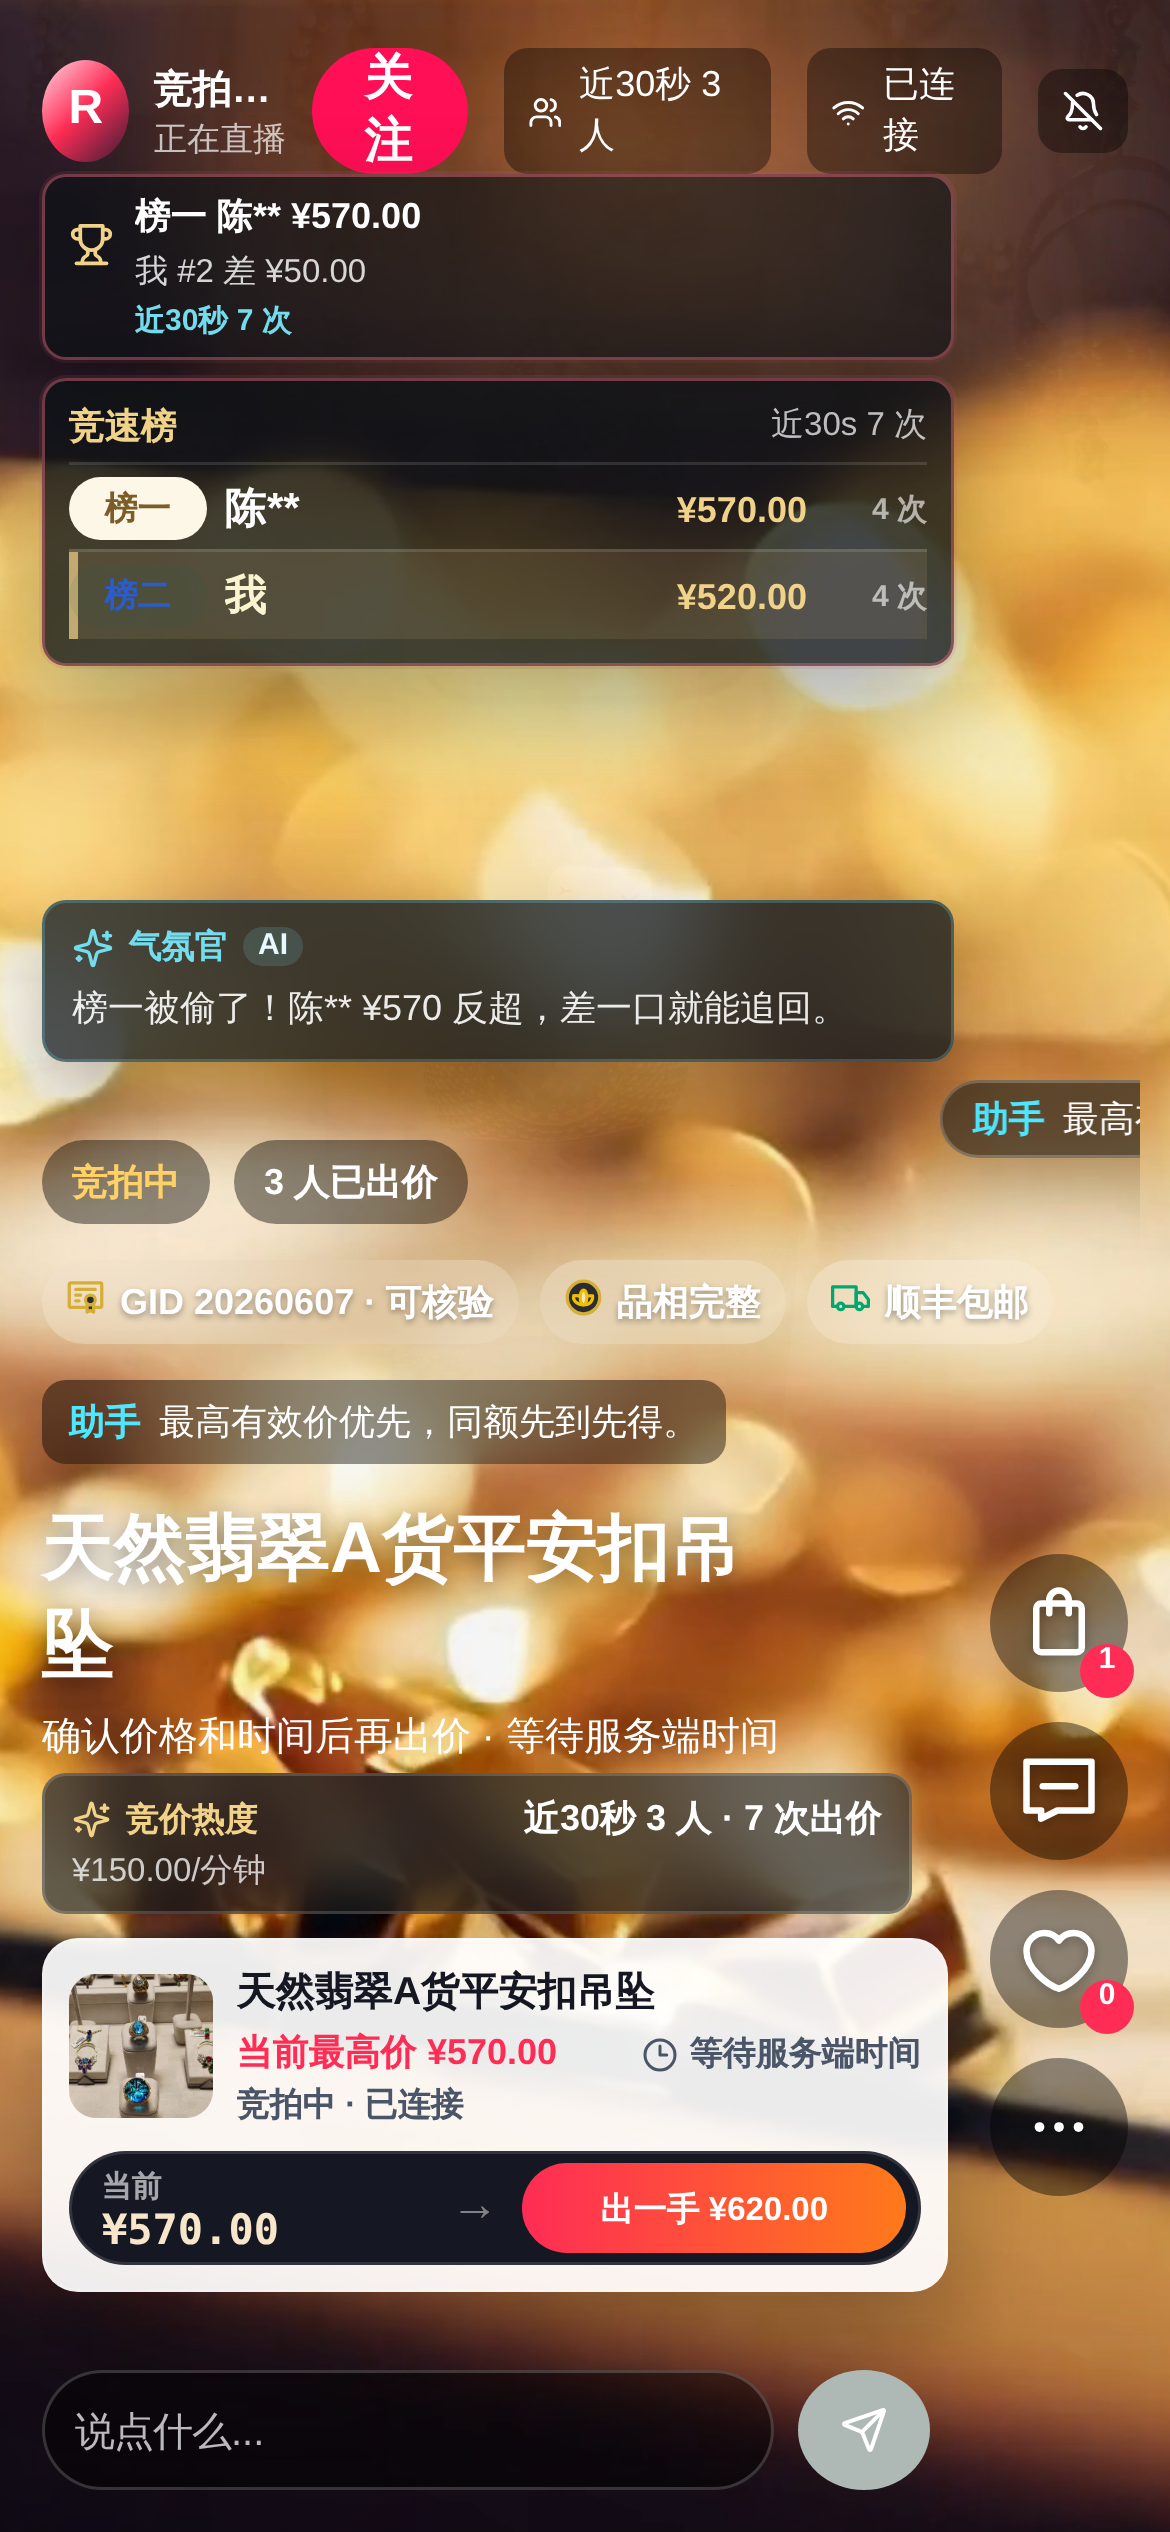
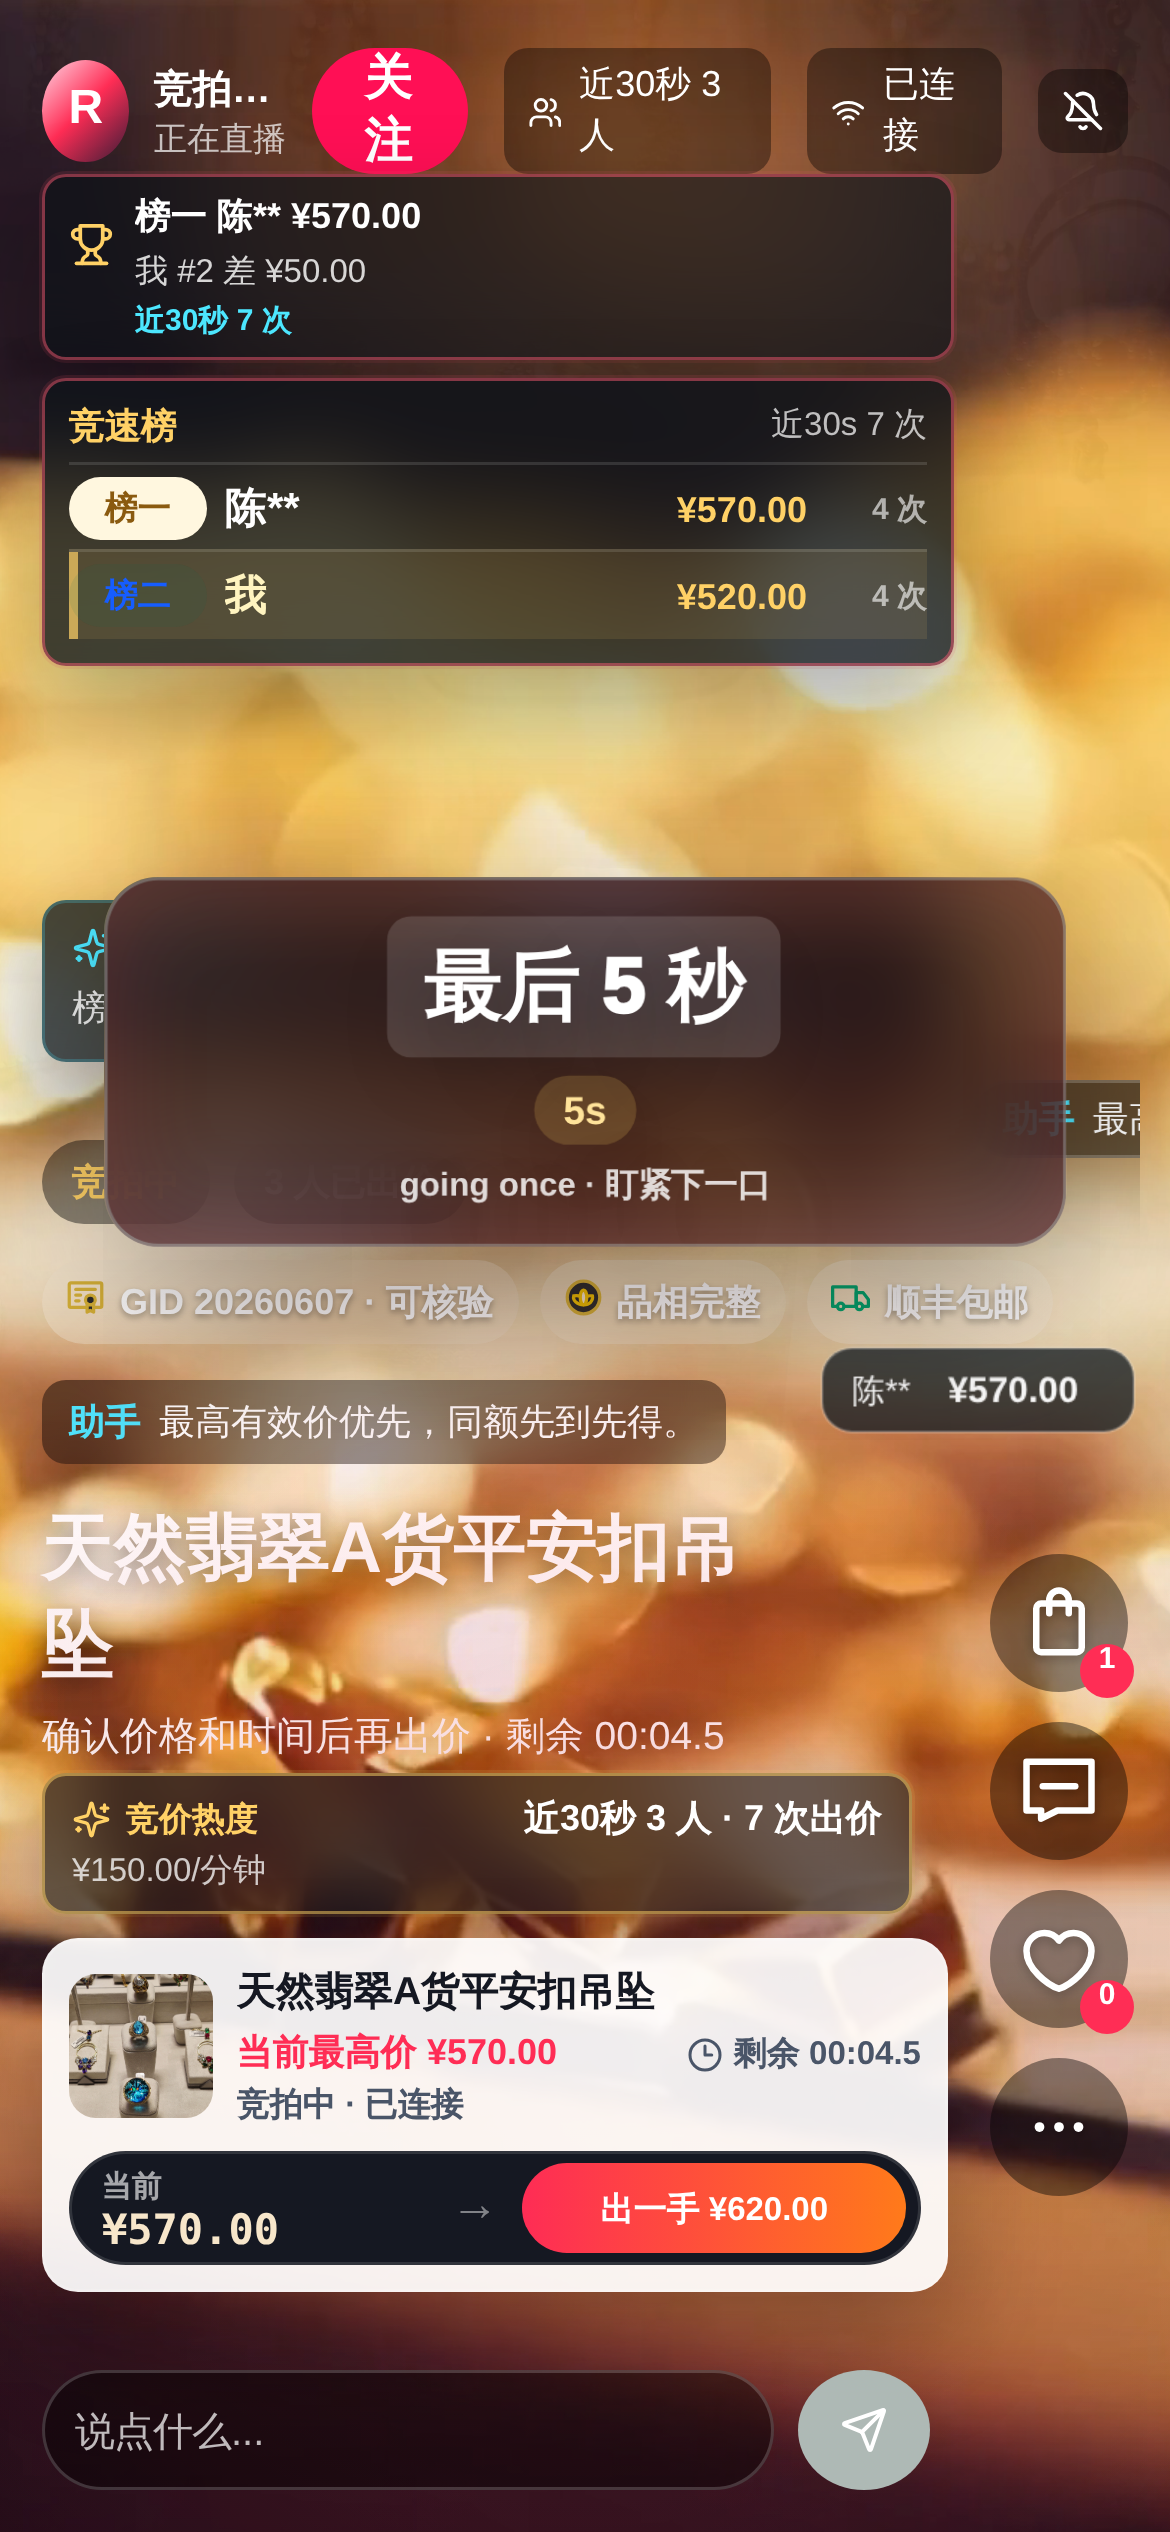
feat(h5): add final seconds atmosphere layer

diff --git a/frontend/mobile-h5/src/components.tsx b/frontend/mobile-h5/src/components.tsx
@@ -202,6 +202,7 @@ export function LiveStage({
       </div>
       <RaceBoard leaderboard={leaderboard} nextBidCents={nextBidCents} forceExpanded={raceBoardExpanded} intensity={atmosphereIntensity} onOpenBid={onOpenBid} />
       <CohostRibbon messages={cohostMessages} />
+      <FinalSecondsLayer countdownPhase={countdownPhase} atmosphereCue={atmosphereCue} scenario={scenario} />
       <div className="stage-safe-zone">
         <div className="live-topic-row" aria-label="live-topic">
           <span>{auctionStatusLabel(scenario.status)}</span>
@@ -227,13 +228,6 @@ export function LiveStage({
           <p>确认价格和时间后再出价 · {scenario.countdown ?? countdownCopy}</p>
         </div>
       </div>
-      {countdownPhase.phase === 'hammer' && countdownPhase.beat && !scenario.stale && !scenario.sold ? (
-        <div className="hammer-beat-layer" data-testid="hammer-beat-layer" aria-live="polite">
-          <span>{countdownPhase.beat}</span>
-          <strong>{countdownPhase.beat === '最后一次' ? '落槌前最后确认' : '有效出价仍会延时'}</strong>
-          <em>以最终成交结果为准</em>
-        </div>
-      ) : null}
       <HeatMeter heat={heat} countdownPhase={countdownPhase.phase} />
       <button className="floating-product-card" type="button" onClick={onOpenBid} data-testid="floating-product-card" aria-label="进入竞拍面板">
         <span className={`floating-thumb ${mediaURL ? 'has-media' : ''}`} style={mediaURL ? { '--floating-media-url': `url("${mediaURL}")` } as React.CSSProperties : undefined}>
@@ -263,6 +257,45 @@ export function LiveStage({
         <button type="button" onClick={onOpenMore} aria-label="更多"><MoreIcon className="action-rail-icon" size={26} theme="outline" fill={iconParkActionFill} strokeWidth={4} /></button>
       </div>
     </section>
+  );
+}
+
+function FinalSecondsLayer({
+  atmosphereCue,
+  countdownPhase,
+  scenario
+}: {
+  atmosphereCue: AtmosphereCue | null;
+  countdownPhase: CountdownPhaseState;
+  scenario: Scenario;
+}) {
+  if (scenario.stale || scenario.sold) return null;
+  const isExtended = atmosphereCue?.kind === 'extended';
+  const isFinal = countdownPhase.phase === 'critical' || countdownPhase.phase === 'hammer';
+  if (!isExtended && !isFinal) return null;
+  const seconds = countdownPhase.remainingMS != null && countdownPhase.remainingMS > 0
+    ? Math.max(1, Math.ceil(countdownPhase.remainingMS / 1000))
+    : null;
+  const title = isExtended
+    ? '延时 +10s'
+    : countdownPhase.phase === 'hammer'
+      ? countdownPhase.beat || '落槌窗口'
+      : '最后 5 秒';
+  const detail = isExtended
+    ? '最后窗口有真实出价，竞拍继续'
+    : countdownPhase.phase === 'hammer'
+      ? countdownPhase.beat === '最后一次' ? '落槌前最后确认' : '有效出价仍会延时'
+      : 'going once · 盯紧下一口';
+  return (
+    <div
+      className={`final-seconds-layer ${isExtended ? 'is-extended' : countdownPhase.phase}`}
+      data-testid="final-seconds-layer"
+      aria-live="assertive"
+    >
+      <span>{title}</span>
+      <strong>{seconds != null && !isExtended ? `${seconds}s` : detail}</strong>
+      {!isExtended && <em>{detail}</em>}
+    </div>
   );
 }
 

diff --git a/tests/e2e/mobile-h5.spec.ts b/tests/e2e/mobile-h5.spec.ts
@@ -2286,6 +2286,8 @@ test('H5 extension and sold visual effects use bounded nonblocking motion layers
   });
 
   await expect(page.getByTestId('live-stage')).toHaveAttribute('data-atmosphere-kind', 'extended');
+  await expect(page.getByTestId('final-seconds-layer')).toContainText('延时 +10s');
+  await expect(page.getByTestId('final-seconds-layer')).toContainText('最后窗口有真实出价');
   await expect(page.getByTestId('auction-countdown')).toHaveAttribute('data-effect', 'extension-stretch');
   await expect(page.getByTestId('auction-countdown')).toHaveCSS('animation-name', 'countdown-stretch');
 
@@ -2316,7 +2318,7 @@ test('H5 extension and sold visual effects use bounded nonblocking motion layers
 });
 
 test('H5 countdown shows stable tenths and authoritative extension explanation', async ({ page }) => {
-  const oldEndAt = '2099-05-22T14:00:09.900+08:00';
+  const oldEndAt = '2099-05-22T14:00:04.900+08:00';
   const serverTimeMS = Date.parse('2099-05-22T14:00:00+08:00');
   await page.route('/api/auctions/auc_live', async (route) => {
     await route.fulfill({
@@ -2344,8 +2346,9 @@ test('H5 countdown shows stable tenths and authoritative extension explanation',
   });
 
   await page.goto('/');
+  await expect(page.getByTestId('final-seconds-layer')).toContainText('最后 5 秒');
   await openBidPanel(page);
-  await expect(page.getByTestId('auction-countdown')).toContainText(/剩余 00:0\d\.\d/);
+  await expect(page.getByTestId('auction-countdown')).toContainText(/剩余 00:0[1-5]\.\d/);
   const before = await page.getByTestId('auction-countdown').boundingBox();
 
   await page.evaluate(() => {
@@ -2359,8 +2362,8 @@ test('H5 countdown shows stable tenths and authoritative extension explanation',
           current_winner_id: 'user_2',
           user_id: 'user_2',
           leader_user_masked: '张**',
-          old_end_at: '2099-05-22T14:00:09.900+08:00',
-          end_at: '2099-05-22T14:00:19.900+08:00',
+          old_end_at: '2099-05-22T14:00:04.900+08:00',
+          end_at: '2099-05-22T14:00:14.900+08:00',
           extend_count: 2,
           max_extend_count: 3,
           server_time_ms: Date.parse('2099-05-22T14:00:00+08:00')
@@ -2369,8 +2372,8 @@ test('H5 countdown shows stable tenths and authoritative extension explanation',
     }));
   });
 
-  await expect(page.getByTestId('auction-countdown')).toContainText('延时后 00:20');
-  await expect(page.getByTestId('auction-countdown')).toContainText('延时 14:00:09 -> 14:00:19 · 第 2/3 次');
+  await expect(page.getByTestId('auction-countdown')).toContainText('延时后 00:15');
+  await expect(page.getByTestId('auction-countdown')).toContainText('延时 14:00:04 -> 14:00:14 · 第 2/3 次');
   const after = await page.getByTestId('auction-countdown').boundingBox();
   expect(before).not.toBeNull();
   expect(after).not.toBeNull();

diff --git a/frontend/mobile-h5/src/styles.css b/frontend/mobile-h5/src/styles.css
@@ -1322,46 +1322,92 @@ button {
   background: linear-gradient(135deg, #fff8e6, #ffffff);
 }
 
-.hammer-beat-layer {
+.final-seconds-layer {
   position: absolute;
   left: 50%;
-  top: 43%;
-  z-index: 3;
+  top: 42%;
+  z-index: 5;
   transform: translate3d(-50%, -50%, 0);
+  width: min(82%, 320px);
+  min-height: 92px;
+  border: 1px solid rgba(255, 255, 255, .28);
+  border-radius: 18px;
+  padding: 12px 14px;
+  background: rgba(34, 14, 20, .68);
+  box-shadow: 0 22px 56px rgba(0, 0, 0, .34), inset 0 0 34px rgba(255, 91, 117, .18);
+  backdrop-filter: blur(16px);
   display: grid;
   justify-items: center;
   gap: 6px;
   pointer-events: none;
   color: #fff;
   text-shadow: 0 10px 28px rgba(0, 0, 0, .42);
+  animation: final-seconds-pop 860ms cubic-bezier(.2, .8, .2, 1) both;
 }
 
-.hammer-beat-layer span {
+.final-seconds-layer span {
   min-width: 112px;
-  border: 1px solid rgba(255, 255, 255, .34);
   border-radius: var(--radius-md);
-  padding: 8px 14px;
-  background: rgba(15, 23, 42, .48);
-  backdrop-filter: blur(12px);
-  font-size: 28px;
+  padding: 6px 12px;
+  background: rgba(255, 255, 255, .14);
+  font-size: 26px;
   font-weight: 950;
   letter-spacing: 0;
   text-align: center;
-  animation: hammer-beat-pop 760ms ease-out both;
 }
 
-.hammer-beat-layer strong {
+.final-seconds-layer strong {
   border-radius: 999px;
-  padding: 4px 9px;
-  background: rgba(255, 255, 255, .16);
-  font-size: 11px;
+  padding: 4px 10px;
+  background: rgba(255, 209, 102, .18);
+  color: #ffe39a;
+  font-size: 13px;
 }
 
-.hammer-beat-layer em {
+.final-seconds-layer em {
   color: rgba(255, 255, 255, .82);
   font-size: 11px;
   font-style: normal;
   font-weight: 800;
+}
+
+.final-seconds-layer.hammer {
+  border-color: rgba(255, 91, 117, .48);
+  background: rgba(67, 13, 24, .74);
+}
+
+.final-seconds-layer.hammer span {
+  background: rgba(255, 91, 117, .26);
+}
+
+.final-seconds-layer.is-extended {
+  border-color: rgba(77, 231, 255, .42);
+  background: rgba(7, 37, 42, .76);
+  box-shadow: 0 22px 56px rgba(0, 0, 0, .34), inset 0 0 34px rgba(77, 231, 255, .16);
+}
+
+.final-seconds-layer.is-extended span {
+  color: #4de7ff;
+}
+
+.final-seconds-layer.is-extended strong {
+  background: rgba(77, 231, 255, .16);
+  color: #e9fdff;
+}
+
+@keyframes final-seconds-pop {
+  0% {
+    transform: translate3d(-50%, -46%, 0) scale(.96);
+    opacity: 0;
+  }
+  42% {
+    transform: translate3d(-50%, -50%, 0) scale(1.02);
+    opacity: 1;
+  }
+  100% {
+    transform: translate3d(-50%, -50%, 0) scale(1);
+    opacity: 1;
+  }
 }
 
 .auction-panel {

diff --git a/docs/reviews/极致竞价氛围-3.0-2026-06-07/08-执行记录-2026-06-07.md b/docs/reviews/极致竞价氛围-3.0-2026-06-07/08-执行记录-2026-06-07.md
@@ -83,3 +83,40 @@
 - soft-close：延时事件的大幅可视化，而不是仅 toast/文案。
 - 落槌高潮：礼花/聚光/战绩卡先于支付的完整编排。
 - AI 激活：真 `API_KEY` 路径、模板降级路径、事实一致性抽查证据。
+
+## Round 3 · 末段窒息与延时反转层
+
+本轮处理 `03` §C 的主舞台呈现缺口：原先只有 `hammer-beat-layer` 小文字节拍，末段紧张感不够可见。
+
+- `frontend/mobile-h5/src/components.tsx` 新增 `FinalSecondsLayer`：
+  - `critical` / 末 5 秒：显示 `最后 5 秒`、剩余秒数、`going once · 盯紧下一口`。
+  - `hammer`：显示 `第一次 / 第二次 / 最后一次`，并保留“有效出价仍会延时 / 落槌前最后确认”语义。
+  - `extended` cue：显示 `延时 +10s` 与“最后窗口有真实出价，竞拍继续”。
+  - `scenario.stale` / `scenario.sold` 下不渲染，避免恢复期或终态播假升温。
+- `frontend/mobile-h5/src/styles.css` 将末段层升级为居中峰值层，使用红/青两套态势区分末段与延时反转；不遮挡底部价格、热度、出价 CTA。
+- `tests/e2e/mobile-h5.spec.ts` 扩展：
+  - 延时事件断言 `final-seconds-layer` 出现 `延时 +10s` 与真实窗口文案。
+  - 末 5 秒快照断言主舞台出现 `最后 5 秒`，并保留 authoritative countdown / extension explanation。
+- `capture-atmosphere.mjs` 新增 `10-final-seconds-layer-360.png` 视觉取证。
+
+### 验证
+
+- `pnpm --filter mobile-h5 build`：通过。
+- `npx playwright test tests/e2e/mobile-h5.spec.ts -g "extension and sold visual|countdown shows stable" --reporter=line`：2 passed。
+- `node docs/reviews/极致竞价氛围-3.0-2026-06-07/capture-atmosphere.mjs`：通过，新增：
+  - `evidence/10-final-seconds-layer-360.png`
+
+### 对照评估
+
+| 文档项 | 本轮状态 | 说明 |
+|---|---|---|
+| `03` 末 5 秒 going once | **完成基础版** | 主舞台可见“最后 5 秒”与 going once 文案。 |
+| `03` hammer 三拍 | **完成基础版** | 复用服务端校时的 `countdownPhase.beat`，不靠本地假倒计时。 |
+| `03` soft-close 可视化 | **部分完成** | `extended` cue 变成主舞台 `延时 +10s` 峰值层；后续可把真实延时秒数从事件中提取显示。 |
+| `01` Gating | **保持有效** | stale/sold 不渲染末段峰值层。 |
+
+### 下一轮缺口
+
+- soft-close 层显示真实 `+Ns`，而不是当前固定 `+10s` 文案。
+- 落槌高潮：礼花/聚光/战绩卡先于支付的完整编排。
+- AI 激活：真 `API_KEY` 路径、模板降级路径、事实一致性抽查证据。
